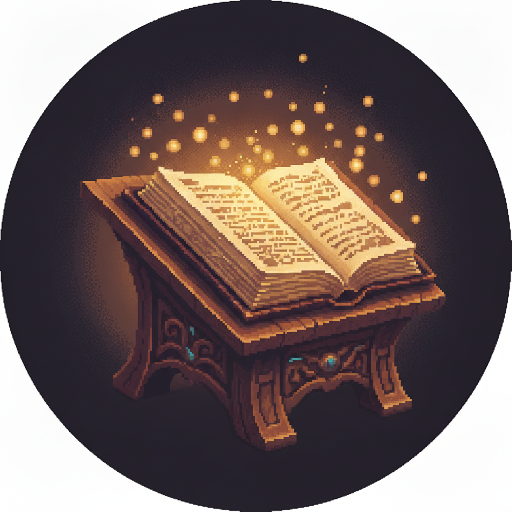
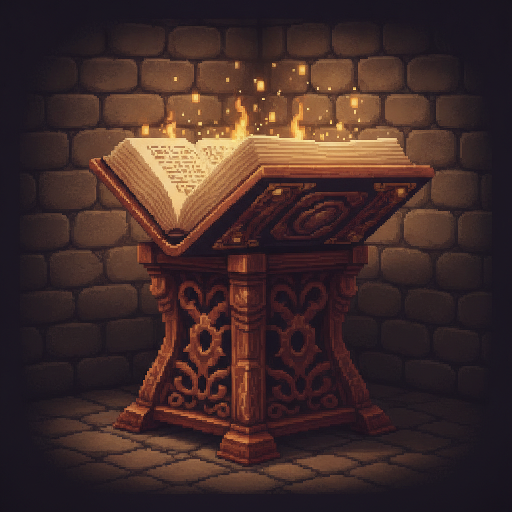
Tab reorder (Forge-first), Codex door fix, full-image lightbox
- Tabs reordered to Forge -> Studio -> Codex (create -> refine -> view); app
  opens on Forge.
- Regenerated the Codex portal door to fill the frame with dark stone + warm
  candlelight (no white circle/outline) so it matches the Forge door.
- Portraits are now click-to-enlarge: clicking any portrait thumbnail (Forge slots
  or Codex) opens a full-size lightbox, so you can see the real image without
  going to Codex. Verified live.
- Add _portal-preview.html (static art-check page for the three portal doors).

diff --git a/web/frontend/_portal-preview.html b/web/frontend/_portal-preview.html
@@ -1,0 +1,29 @@
+<!doctype html>
+<html>
+<head>
+<meta charset="utf-8">
+<title>Portal art preview — Character Forge</title>
+<style>
+  body { margin:0; min-height:100vh; background:radial-gradient(120% 120% at 50% 0%, #2a2118, #14110d 60%); color:#e7dcc6; font-family:Georgia, serif; display:flex; flex-direction:column; align-items:center; justify-content:center; padding:40px 20px; }
+  h1 { font-size:26px; letter-spacing:1px; color:#efe4cd; margin:0 0 6px; }
+  p.sub { color:#9c8e76; margin:0 0 36px; font-size:15px; }
+  .row { display:flex; gap:28px; flex-wrap:wrap; justify-content:center; }
+  .door { width:240px; background:#1f1b15; border:1px solid #3a3227; border-radius:14px; padding:14px; text-align:center; transition:transform .18s, border-color .18s, box-shadow .18s; }
+  .door:hover { transform:translateY(-6px); border-color:#bd7d3f; box-shadow:0 14px 40px rgba(0,0,0,.5); }
+  .door img { width:212px; height:212px; image-rendering:pixelated; border-radius:10px; display:block; }
+  .door h2 { font-family:'Cinzel', Georgia, serif; font-size:18px; color:#f0d9b5; letter-spacing:1px; margin:12px 0 4px; }
+  .door span { font-size:13px; color:#9c8e76; }
+  .note { margin-top:34px; color:#7a6c55; font-size:13px; max-width:560px; text-align:center; }
+</style>
+</head>
+<body>
+  <h1>Choose your path</h1>
+  <p class="sub">Preview of the three welcome-portal doors (pixel art)</p>
+  <div class="row">
+    <div class="door"><img src="./assets/portal-forge.png" alt="Forge"><h2>The Forge</h2><span>Describe a hero, let the forge conjure them</span></div>
+    <div class="door"><img src="./assets/portal-studio.png" alt="Studio"><h2>The Studio</h2><span>Build or refine by hand</span></div>
+    <div class="door"><img src="./assets/portal-codex.png" alt="Codex"><h2>The Codex</h2><span>Your finished sheet, ready for the table</span></div>
+  </div>
+  <p class="note">This is just an art check — hover a door for a taste of the lift. The real screen will add the animated hover (hammer strike, quill scrawl, book bloom) and the copper glyph-rain transition.</p>
+</body>
+</html>

diff --git a/web/frontend/Character Forge - Prototype.dc.html b/web/frontend/Character Forge - Prototype.dc.html
@@ -42,8 +42,8 @@
       <div style="font-family:'Cinzel',serif; font-weight:700; font-size:19px; letter-spacing:1px; color:#efe4cd;">Character Forge</div>
     </div>
     <div style="display:flex; gap:4px; margin-left:14px; background:#241f19; border:1px solid #3a3227; border-radius:8px; padding:4px;">
-      <button onClick="{{ onStudio }}" style="{{ tabStudio }}">Studio</button>
       <button onClick="{{ onForge }}" style="{{ tabForge }}">Forge</button>
+      <button onClick="{{ onStudio }}" style="{{ tabStudio }}">Studio</button>
       <button onClick="{{ onCodex }}" style="{{ tabCodex }}">Codex</button>
     </div>
     <div style="margin-left:auto; display:flex; align-items:center; gap:12px;">
@@ -117,6 +117,12 @@
   </sc-if>
   <sc-if value="{{ savedToast }}" hint-placeholder-val="{{ false }}">
     <div style="position:fixed; bottom:22px; left:50%; transform:translateX(-50%); background:#2d4a32; color:#dff0e2; border:1px solid #3f6147; border-radius:8px; padding:11px 18px; font-size:14px; z-index:210; box-shadow:0 8px 24px rgba(0,0,0,0.4);">Saved to My creations.</div>
+  </sc-if>
+  <sc-if value="{{ hasLightbox }}" hint-placeholder-val="{{ false }}">
+    <div onClick="{{ onCloseLightbox }}" style="position:fixed; inset:0; background:rgba(8,6,4,0.86); z-index:300; display:flex; align-items:center; justify-content:center; padding:30px; cursor:zoom-out;">
+      <img src="{{ lightbox }}" alt="Full portrait" style="max-width:92vw; max-height:92vh; object-fit:contain; border-radius:10px; box-shadow:0 20px 60px rgba(0,0,0,0.6);" />
+      <div style="position:fixed; top:18px; right:24px; color:#cabfa9; font-size:14px;">Click anywhere to close</div>
+    </div>
   </sc-if>
 
   <!-- ===================== STARTER TRAY ===================== -->
@@ -568,7 +574,7 @@ class Component extends DCLogic {
     super(props);
     this.LIB = this.buildLib();
     this.state = {
-      view: "studio", mode: "monster", activeId: "hane",
+      view: "forge", mode: "monster", activeId: "hane",
       draft: this.clone(this.LIB.hane),
       forgeState: "At rest", copied: false, portraitIndex: 0,
       bridge: null, rulesetSlug: "dnd5e-2014", ruleset: null, rulesets: [],
@@ -576,7 +582,7 @@ class Component extends DCLogic {
       rulesMode: "relaxed", flavourOpen: false,
       flavour: { experience: "", origin: "", memory: "" },
       libOpen: false, confirmDelete: null, savedToast: false,
-      trash: [], trashOpen: false
+      trash: [], trashOpen: false, lightbox: null
     };
   }
 
@@ -1136,12 +1142,12 @@ class Component extends DCLogic {
       p.showSlot = !url && !(slot && slot.loading);
       p.canGen = live && !(slot && slot.loading);
       p.genLabel = url ? "Regenerate" : "Generate";
-      p.imgEl = url ? React.createElement("img", { src: url, alt: p.label, style: { width: "100%", height: "116px", objectFit: "cover", display: "block" } }) : null;
+      p.imgEl = url ? React.createElement("img", { src: url, alt: p.label, title: "Click to view full image", onClick: () => this.setState({ lightbox: url }), style: { width: "100%", height: "116px", objectFit: "cover", display: "block", cursor: "zoom-in" } }) : null;
       p.onGen = () => this.genArt(p.label);
     });
     const cur = portraits[this.state.portraitIndex] || portraits[0];
     const codexUrl = this.portraitUrl(this.artKeyFor(cur.label));
-    const codexImgEl = codexUrl ? React.createElement("img", { src: codexUrl, alt: cur.label, style: { width: "280px", height: "348px", objectFit: "cover", borderRadius: "8px", display: "block", boxShadow: "inset 0 0 0 1px #c9b48c" } }) : null;
+    const codexImgEl = codexUrl ? React.createElement("img", { src: codexUrl, alt: cur.label, title: "Click to view full image", onClick: () => this.setState({ lightbox: codexUrl }), style: { width: "280px", height: "348px", objectFit: "cover", borderRadius: "8px", display: "block", boxShadow: "inset 0 0 0 1px #c9b48c", cursor: "zoom-in" } }) : null;
     const codexDots = portraits.map((p, i) => ({
       onClick: () => this.setState({ portraitIndex: i }),
       style: "width:8px;height:8px;border-radius:50%;cursor:pointer;background:" + (i === this.state.portraitIndex ? "#99502a" : "#c4ad84") + ";"
@@ -1174,6 +1180,7 @@ class Component extends DCLogic {
       confirmTitle, confirmBody, confirmBtn,
       confirmBtnStyle: (isForever ? "background:#7a2d2d;" : "background:#99502a;") + " color:#fff; border:none; border-radius:7px; padding:9px 16px; font-size:14px; font-weight:600; cursor:pointer;",
       onCancelDelete: () => this.cancelDelete(), onConfirmDelete: () => this.confirmDeleteNow(),
+      hasLightbox: !!this.state.lightbox, lightbox: this.state.lightbox, onCloseLightbox: () => this.setState({ lightbox: null }),
       onMonster: () => this.setMode("monster"), onCharacter: () => this.setMode("character"),
       modeMonster: this.modeBtn(this.state.mode === "monster"), modeCharacter: this.modeBtn(this.state.mode === "character"),
       modeNoun: this.state.mode === "character" ? "player character" : "monster / NPC",